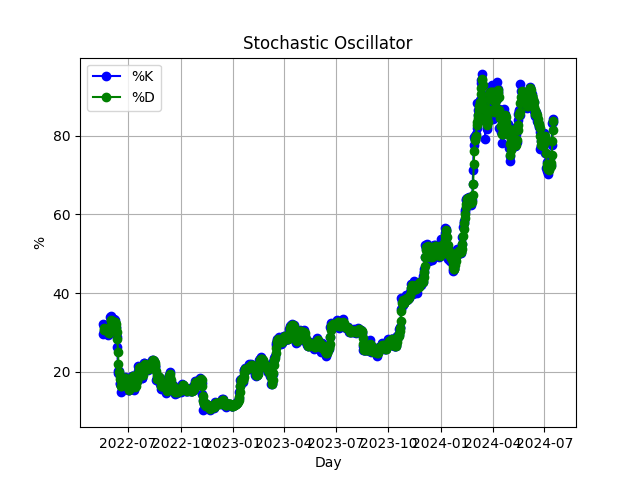
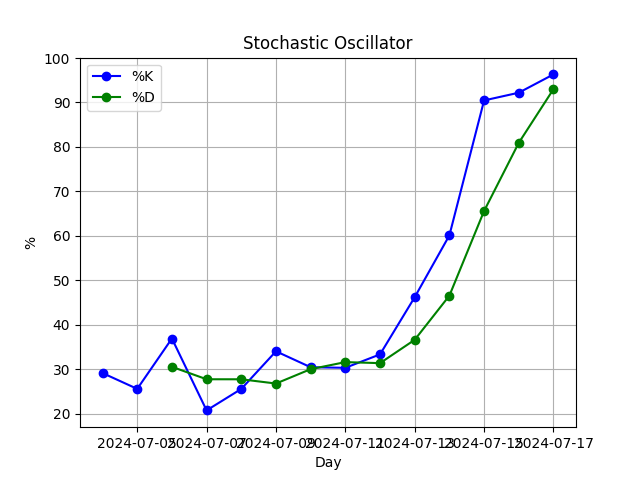
changed it to actually be 14 days

diff --git a/main.py b/main.py
@@ -32,7 +32,7 @@ def fetch_ohlcv(symbol, timeframe, limit):
 def main():
     symbol = "BTC/USDT"
     timeframe = "1d"
-    limit = 1000
+    limit = 14
     data = fetch_ohlcv(symbol, timeframe, limit)
     print(data)
 
